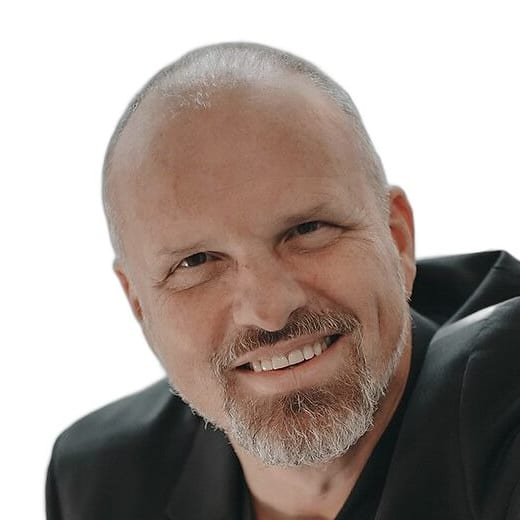
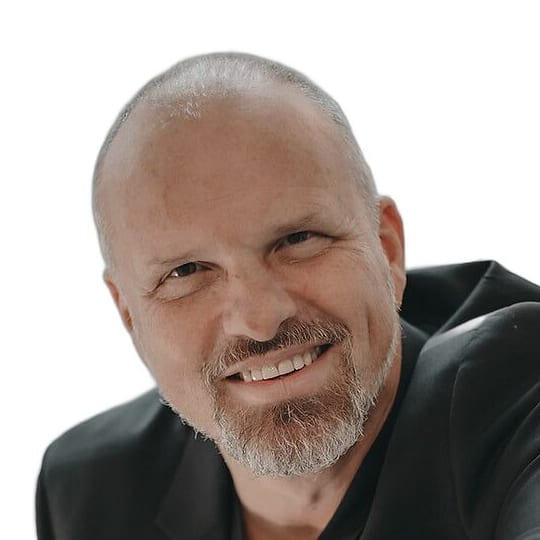
Cover mittig, Joey-Foto mit ganzen Köpfen, Benno-Porträt freigestellt, Gesprächstext ohne Gedankenstrich

diff --git a/src/styles/global.css b/src/styles/global.css
@@ -1918,3 +1918,9 @@ p {
 .statement .dialog__kicker::before {
   content: none;
 }
+
+/* Buchcover mittig in ihrer Spalte */
+.rec-cover {
+  align-self: center;
+  margin-inline: auto;
+}
